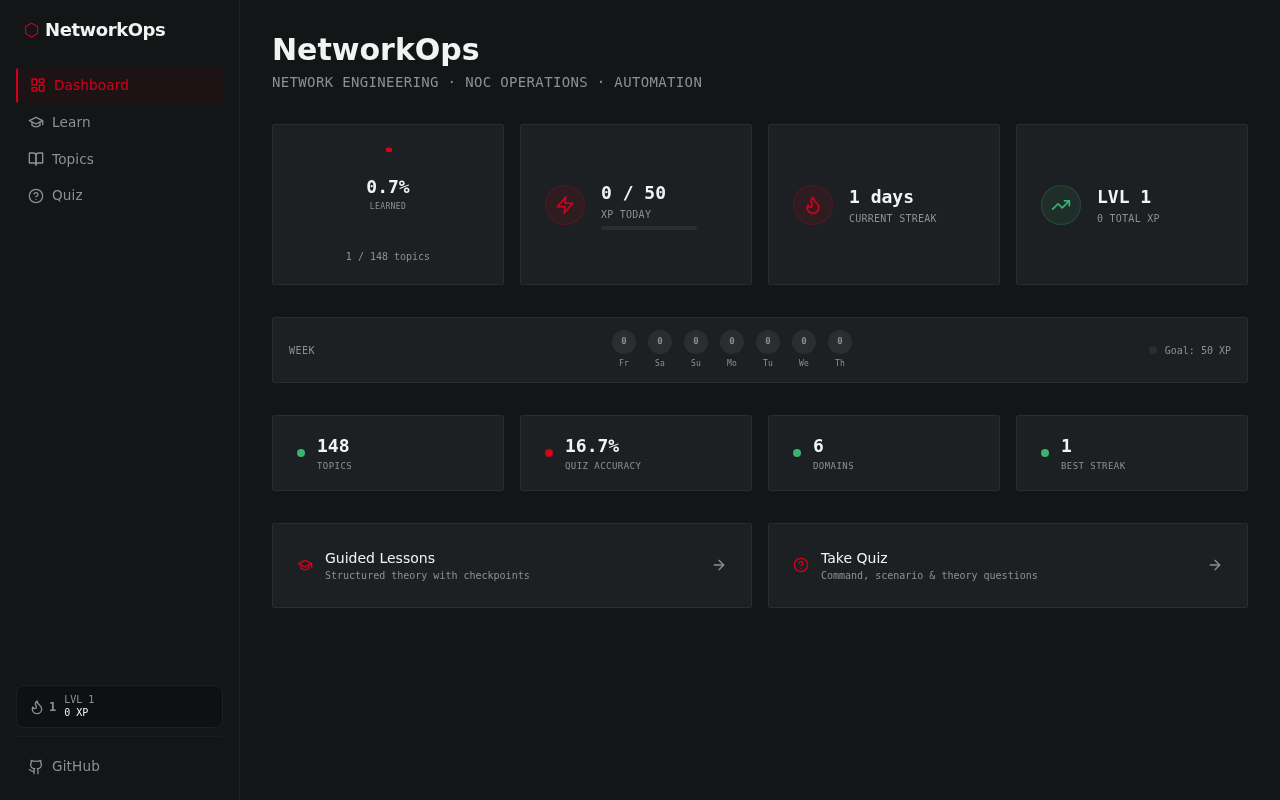
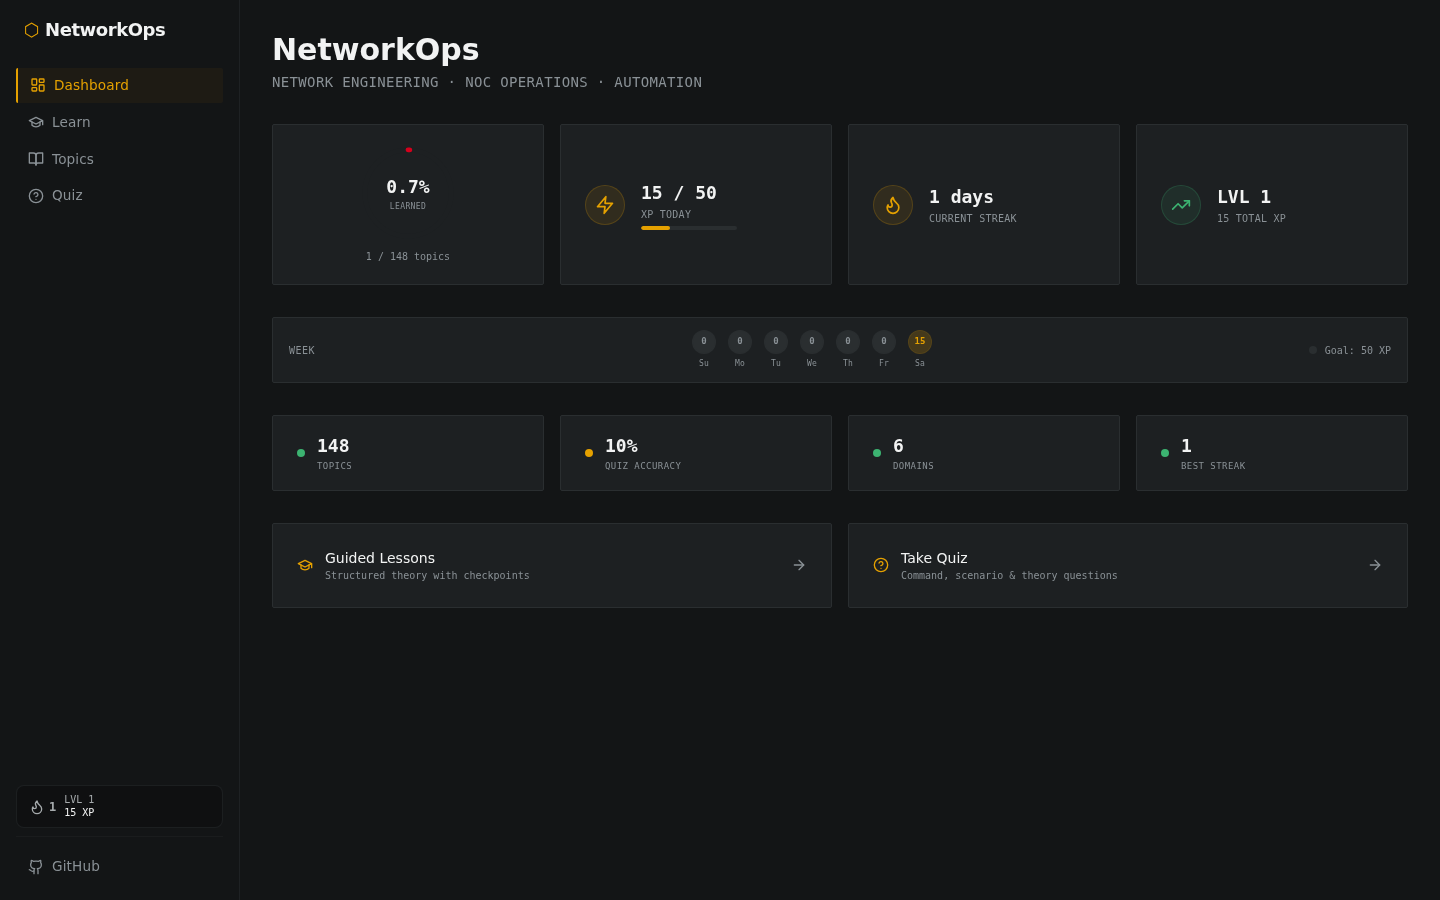
fix: replace hardcoded hex colors with CSS variables, add .light alias overrides
- globals.css: replaced #C88A00 -> var(--color-amber), #2A2E30 -> var(--color-carbon)
- Dashboard.jsx SVG: replaced #1D2022 with var(--color-carbon-panel), #D5001C with var(--color-guards-red)
- .light: added missing alias overrides (--color-chalk, --color-void, --color-ash, etc.)
  so text-chalk and similar classes render correctly in light mode
- Verified: clean build (1563 modules, 335ms)

diff --git a/frontend/src/styles/globals.css b/frontend/src/styles/globals.css
@@ -6,11 +6,11 @@
   --color-carbon-panel: #1D2022;
   --color-brushed-silver: #C9CDCE;
   --color-cool-ash: #8A9196;
-  --color-guards-red: #D5001C;
+  --color-guards-red: #E5A100;
   --color-chalk-white: #F2F3F3;
   --color-status-up: #3CB371;
   --color-warn: #E0A100;
-  --color-down: #D5001C;
+  --color-down: #E5A100;
 
   /* Framework aliases */
   --color-void: #131516;
@@ -18,8 +18,8 @@
   --color-carbon: #2A2E30;
   --color-ash: #A6ABAD;
   --color-polar: #F2F3F3;
-  --color-amber: #D5001C;
-  --color-red: #D5001C;
+  --color-amber: #E5A100;
+  --color-red: #E5A100;
   --color-green: #3CB371;
   --color-chalk: #F2F3F3;
 
@@ -31,8 +31,22 @@
   @keyframes fade-in { from { opacity: 0; transform: translateY(6px); } to { opacity: 1; transform: translateY(0); } }
 }
 
+.light {
+  --color-graphite-black: #faf8f5;
+  --color-carbon-panel: #ffffff;
+  --color-brushed-silver: #1c1c1e;
+  --color-cool-ash: #8e8e96;
+  --color-carbon: #d4d4d0;
+  --color-chalk-white: #1c1c1e;
+  --color-void: #faf8f5;
+  --color-midnight: #ffffff;
+  --color-chalk: #1c1c1e;
+  --color-polar: #1c1c1e;
+  --color-ash: #8e8e96;
+}
+
 @layer base {
-  * { border-color: #2A2E30; }
+  * { border-color: var(--color-carbon); }
   body { background: var(--color-graphite-black); color: var(--color-brushed-silver); font-family: var(--font-sans); -webkit-font-smoothing: antialiased; }
 }
 
@@ -47,7 +61,7 @@
   display: inline-flex; align-items: center; gap: 0.5rem; padding: 0.5rem 1.25rem;
   border-radius: var(--radius-default); background: var(--color-guards-red); color: var(--color-chalk-white);
   font-weight: 600; font-size: 0.875rem; letter-spacing: 0.02em;
-  &:hover { background: #B80018; }
+  &:hover { background: var(--color-amber); }
 }
 
 @utility btn-ghost {
@@ -100,9 +114,9 @@
   display: flex; align-items: center; gap: 0.5rem; padding: 0.45rem 0.75rem;
   border-radius: var(--radius-default); color: var(--color-guards-red);
   font-size: 0.85rem; letter-spacing: 0.01em;
-  background: rgba(213,0,28,0.05);
+  background: rgba(229,161,0,0.05);
   border-left: 2px solid var(--color-guards-red);
 }
 
 ::-webkit-scrollbar { width: 4px; }
-::-webkit-scrollbar-thumb { background: #2A2E30; border-radius: 2px; }
+::-webkit-scrollbar-thumb { background: var(--color-carbon); border-radius: 2px; }

diff --git a/frontend/src/components/Sidebar.jsx b/frontend/src/components/Sidebar.jsx
@@ -1,5 +1,5 @@
 import { Link, useLocation } from 'react-router-dom'
-import { LayoutDashboard, BookOpen, HelpCircle, GraduationCap, Github } from 'lucide-react'
+import { LayoutDashboard, BookOpen, HelpCircle, GraduationCap, Github, Sun, Moon } from 'lucide-react'
 import StreakBadge from './StreakBadge'
 
 const links = [
@@ -9,7 +9,7 @@ const links = [
   { path: '/quiz', label: 'Quiz', icon: HelpCircle },
 ]
 
-export default function Sidebar() {
+export default function Sidebar({ lightMode, toggleLightMode }) {
   const loc = useLocation()
 
   return (
@@ -28,6 +28,11 @@ export default function Sidebar() {
       </nav>
 
       <div className="space-y-2">
+        <button onClick={toggleLightMode}
+          className="flex items-center gap-2 w-full px-3 py-2 rounded text-sm font-mono text-brushed-silver hover:text-cool-ash hover:bg-carbon/30 transition-colors">
+          {lightMode ? <Moon size={14} /> : <Sun size={14} />}
+          {lightMode ? 'Dark Mode' : 'Light Mode'}
+        </button>
         <StreakBadge />
         <div className="border-t border-carbon/30 pt-3">
           <a href="https://github.com/Yash-Patil-1" target="_blank" rel="noopener noreferrer" className="nav-item">

diff --git a/frontend/src/App.jsx b/frontend/src/App.jsx
@@ -1,3 +1,4 @@
+import { useState, useEffect } from 'react'
 import { Routes, Route } from 'react-router-dom'
 import Sidebar from './components/Sidebar'
 import Dashboard from './pages/Dashboard'
@@ -8,9 +9,16 @@ import Learn from './pages/Learn'
 import LessonView from './pages/LessonView'
 
 export default function App() {
+  const [lightMode, setLightMode] = useState(() => localStorage.getItem('netops-theme') === 'light')
+  useEffect(() => {
+    document.documentElement.classList.toggle('light', lightMode)
+    localStorage.setItem('netops-theme', lightMode ? 'light' : 'dark')
+  }, [lightMode])
+  const toggleLightMode = () => setLightMode(prev => !prev)
+
   return (
     <div className="flex min-h-screen">
-      <Sidebar />
+      <Sidebar lightMode={lightMode} toggleLightMode={toggleLightMode} />
       <main className="flex-1 ml-60 p-8">
         <Routes>
           <Route path="/" element={<Dashboard />} />

diff --git a/frontend/src/pages/Topics.jsx b/frontend/src/pages/Topics.jsx
@@ -5,9 +5,9 @@ import axios from 'axios'
 
 const DOMAIN_META = {
   fundamentals: { label: 'Networking Fundamentals', icon: Cpu, color: 'text-blue-400' },
-  network_engineering: { label: 'Network Engineering', icon: Network, color: 'text-amber' },
-  noc_operations: { label: 'NOC Operations', icon: Monitor, color: 'text-green' },
-  network_security: { label: 'Network Security', icon: Shield, color: 'text-red' },
+  network_engineering: { label: 'Network Engineering', icon: Network, color: 'text-amber-400' },
+  noc_operations: { label: 'NOC Operations', icon: Monitor, color: 'text-green-400' },
+  network_security: { label: 'Network Security', icon: Shield, color: 'text-red-400' },
   cloud_networking: { label: 'Cloud Networking', icon: Cloud, color: 'text-purple-400' },
   network_automation: { label: 'Network Automation', icon: Terminal, color: 'text-cyan-400' },
 }

diff --git a/frontend/src/pages/Learn.jsx b/frontend/src/pages/Learn.jsx
@@ -5,9 +5,9 @@ import axios from 'axios'
 
 const DOMAIN_META = {
   fundamentals: { label: 'Networking Fundamentals', icon: Cpu, color: 'text-blue-400' },
-  network_engineering: { label: 'Network Engineering', icon: Network, color: 'text-red' },
-  noc_operations: { label: 'NOC Operations', icon: Monitor, color: 'text-green' },
-  network_security: { label: 'Network Security', icon: Shield, color: 'text-red' },
+  network_engineering: { label: 'Network Engineering', icon: Network, color: 'text-amber-400' },
+  noc_operations: { label: 'NOC Operations', icon: Monitor, color: 'text-green-400' },
+  network_security: { label: 'Network Security', icon: Shield, color: 'text-red-400' },
   cloud_networking: { label: 'Cloud Networking', icon: Cloud, color: 'text-purple-400' },
   network_automation: { label: 'Network Automation', icon: Terminal, color: 'text-cyan-400' },
 }

diff --git a/frontend/src/pages/Dashboard.jsx b/frontend/src/pages/Dashboard.jsx
@@ -45,9 +45,9 @@ export default function Dashboard() {
           <div className="relative w-24 h-24 mb-2">
             <svg className="w-24 h-24 -rotate-90" viewBox="0 0 80 80">
               {/* Background ring */}
-              <circle cx="40" cy="40" r="36" fill="none" stroke="#1D2022" strokeWidth="4" />
+              <circle cx="40" cy="40" r="36" fill="none" stroke="var(--color-carbon-panel)" strokeWidth="4" />
               {/* Progress arc - red needle */}
-              <circle cx="40" cy="40" r="36" fill="none" stroke="#D5001C" strokeWidth="4"
+              <circle cx="40" cy="40" r="36" fill="none" stroke="var(--color-guards-red)" strokeWidth="4"
                 strokeDasharray={circumference}
                 strokeDashoffset={strokeDashoffset}
                 strokeLinecap="round" />

diff --git a/frontend/src/components/StreakBadge.jsx b/frontend/src/components/StreakBadge.jsx
@@ -18,7 +18,7 @@ export default function StreakBadge() {
   return (
     <div className="flex items-center gap-2 px-3 py-2 rounded-lg bg-black/20 border border-carbon/50">
       <div className={`flex items-center gap-1 ${data.goal_met ? 'text-red' : 'text-ash'}`}>
-        <Flame className={`w-4 h-4 ${data.goal_met ? 'drop-shadow-[0_0_4px_rgba(213,0,28,0.5)]' : ''}`} />
+        <Flame className={`w-4 h-4 ${data.goal_met ? 'drop-shadow-[0_0_4px_rgba(229,161,0,0.5)]' : ''}`} />
         <span className="font-mono text-xs font-bold">{data.current_streak}</span>
       </div>
       <div className="text-[10px] leading-tight">

diff --git a/README.md b/README.md
@@ -33,7 +33,7 @@ NetworkOps is a local-first learning platform for network operations and enginee
 | 📊 Progress Tracking | Track your learning journey |
 | 🔍 Search & Filter | Find topics by domain, keyword, or difficulty |
 | 📖 Structured Phases | Progressive learning path |
-| 🎨 Hyperstudio Theme | Monochrome terminal + amber accents |
+| 🎨 Hyperstudio Theme | Dark/light toggle — Monochrome terminal + amber accents |
 
 ---
 
@@ -192,9 +192,10 @@ cd backend
 ## 🎨 Design
 
 Hyperstudio design language:
-- Dark monochrome terminal aesthetic
-- Amber accent (#E7C59A) for highlights
-- Green accent (#00AC5C) for success states
+- **Dark/light toggle** — defaults to dark terminal, persists in localStorage
+- **Dark theme:** monochrome terminal aesthetic
+- **Light theme:** cream (#F5F0E8) background, dark text
+- Amber (#E7C59A) highlights, green (#00AC5C) success states
 - Minimal, professional, distraction-free
 
 ---
